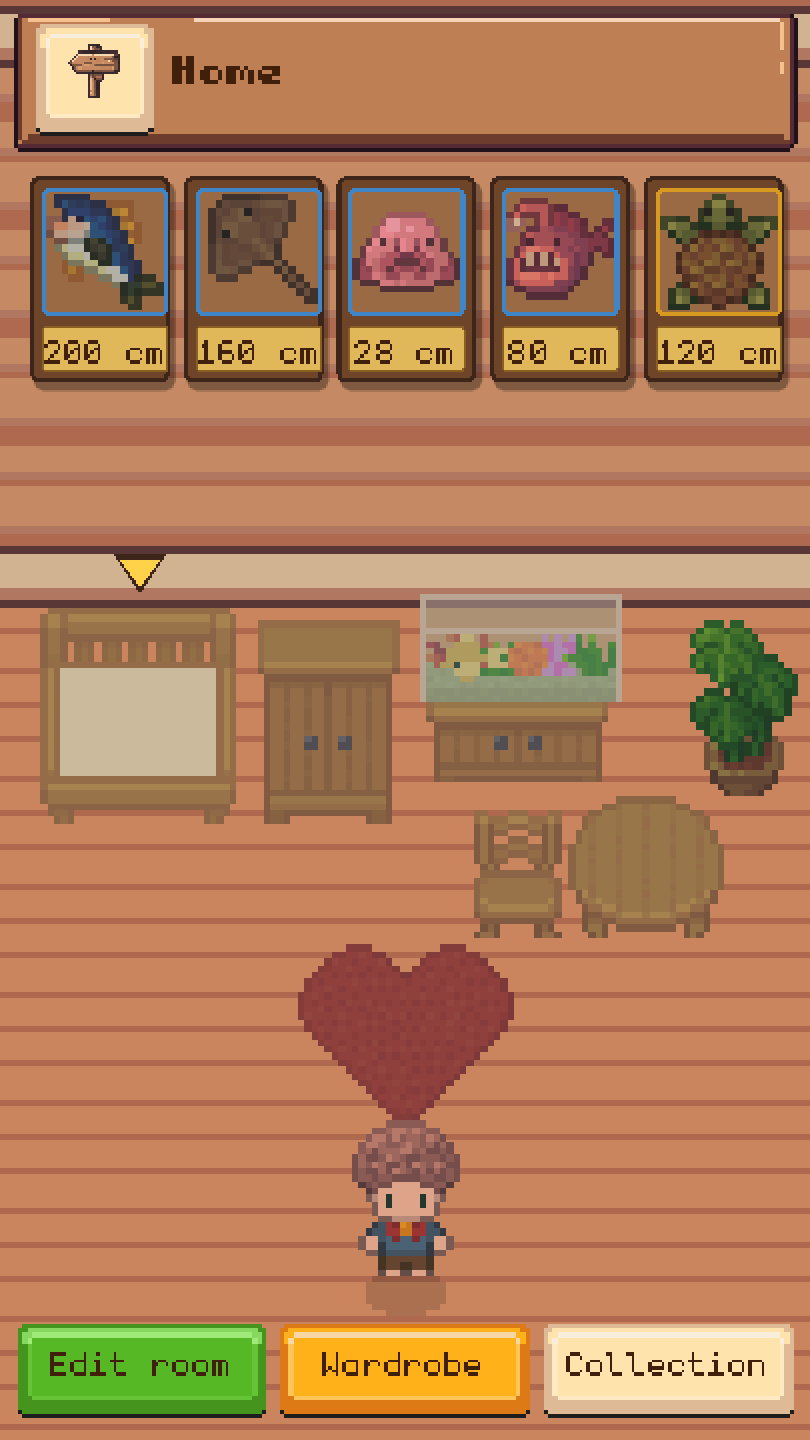
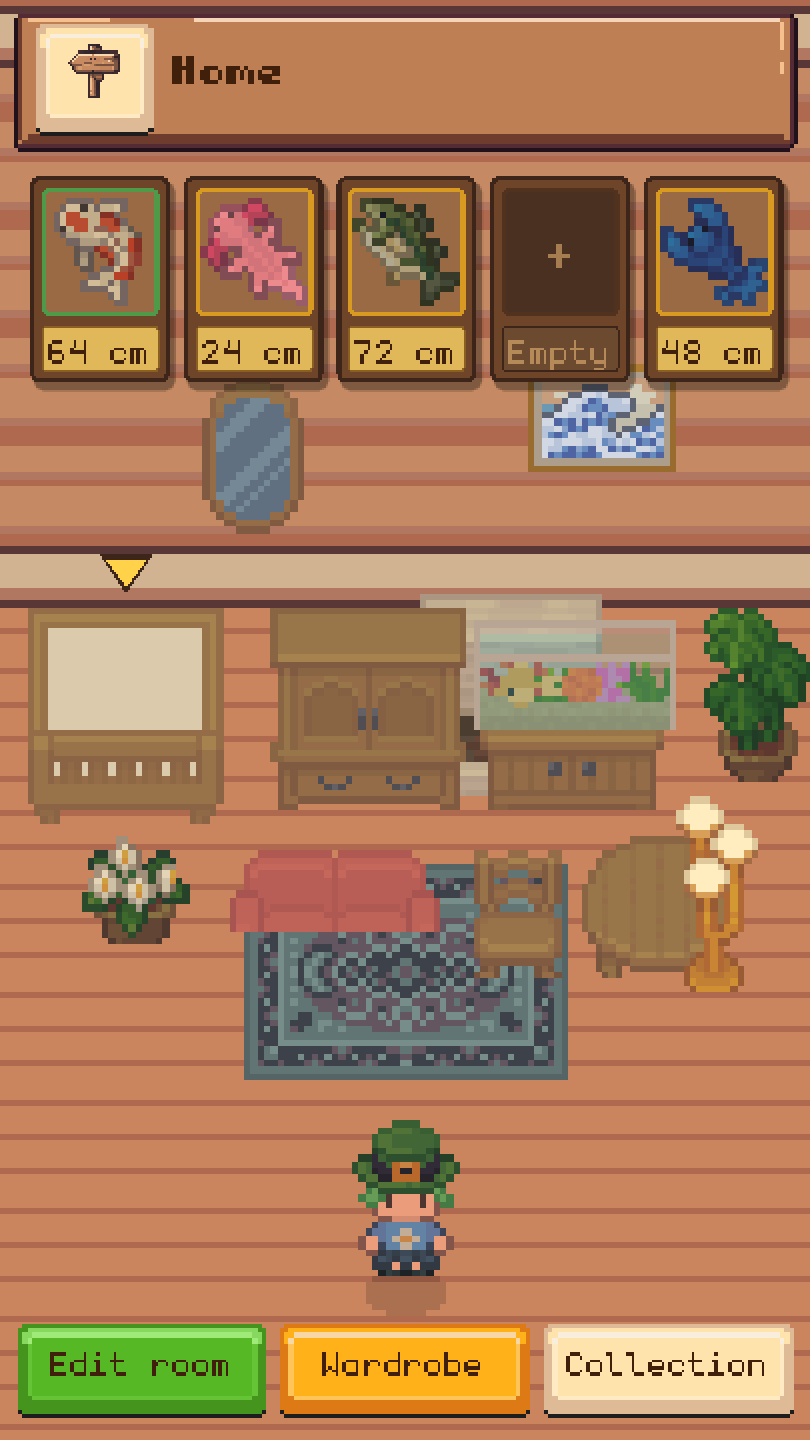
Revamp around five selling points with fresh screenshots

diff --git a/index.html b/index.html
@@ -3,12 +3,12 @@
 <head>
 <meta charset="utf-8">
 <meta name="viewport" content="width=device-width, initial-scale=1">
-<title>Fisherman's Charm: your pocket-sized seaside escape</title>
-<meta name="description" content="Your pocket-sized seaside escape. Cast a line, catch something wonderful, and follow a scruffy pup and his lucky charm across five sunny islands. A cosy pixel-art fishing game for iPhone, with no ads.">
+<title>Fisherman's Charm</title>
+<meta name="description" content="Your pocket-sized seaside escape. Collect 100 kinds of fish, fight legendary creatures with your pup beside you, and make your fisher and your home your own. A cosy pixel-art fishing game for iPhone, with no ads.">
 <meta name="theme-color" content="#0f3d52">
 <meta property="og:type" content="website">
 <meta property="og:title" content="Fisherman's Charm">
-<meta property="og:description" content="Your pocket-sized seaside escape. Hook a scruffy pup with an old charm on his bandana, then fish your way across five sunny islands to find out whose it is. Coming soon to iPhone.">
+<meta property="og:description" content="Your pocket-sized seaside escape. Collect 100 kinds of fish, fight legendary creatures, go fishing with your best friend, dress your fisher and decorate your house. Coming soon to iPhone.">
 <!-- Once the site is hosted, make this an absolute URL (https://your-domain/img/og.jpg) so link previews work. -->
 <meta property="og:image" content="img/og.jpg">
 <meta name="twitter:card" content="summary_large_image">
@@ -134,52 +134,28 @@
   h2 { font-size: clamp(32px, 5vw, 48px); }
   .sub { color: var(--ink-soft); max-width: 52ch; margin: 14px 0 0; }
 
-  /* why you'll love it */
-  .perks { display: grid; gap: 22px; margin-top: 44px; }
-  .perk {
-    background: #fff; border: 3px solid var(--wood); border-radius: var(--radius);
-    padding: 24px 22px 26px; box-shadow: 0 6px 0 var(--sand-dark);
-  }
-  .perk .glyph { font: 700 34px/1 var(--font-pixel); color: var(--gold-deep); }
-  .perk h3 { font-size: 26px; margin: 12px 0 8px; }
-  .perk p { margin: 0; color: var(--ink-soft); font-size: 17px; }
-  @media (min-width: 800px) { .perks { grid-template-columns: repeat(3, 1fr); } }
-
-  /* features */
-  .features { background: var(--sea-deep); color: #fff; position: relative; }
-  .features .kicker { color: var(--gold); }
-  .features .sub { color: #bfe3ea; }
-  .grid { display: grid; gap: 18px; margin-top: 44px; }
-  @media (min-width: 640px) { .grid { grid-template-columns: repeat(2, 1fr); } }
-  @media (min-width: 980px) { .grid { grid-template-columns: repeat(3, 1fr); } }
-  .card { background: rgba(255,255,255,.07); border: 2px solid rgba(255,255,255,.16); border-radius: var(--radius); padding: 24px; }
-  .card .num { font: 700 38px var(--font-pixel); color: var(--gold); line-height: 1; }
-  .card h3 { font-size: 24px; margin: 10px 0 8px; }
-  .card p { margin: 0; color: #cfe9ee; font-size: 17px; }
-
-  /* gallery */
-  .gallery-head { display: flex; flex-wrap: wrap; justify-content: space-between; align-items: end; gap: 12px; }
-  .hint { font-size: 14px; color: var(--ink-soft); font-weight: 600; margin: 0; }
-  .shots {
-    display: flex; gap: 22px; overflow-x: auto; padding: 38px var(--gutter) 30px;
-    margin: 0 calc(var(--gutter) * -1); scroll-snap-type: x mandatory; scrollbar-width: thin;
-    scrollbar-color: var(--wood-light) transparent;
-  }
-  .shot { flex: 0 0 min(66vw, 270px); scroll-snap-align: center; margin: 0; }
+  /* the five points: text one side, phones the other, flipping each time */
+  .point .wrap { display: grid; grid-template-columns: minmax(0, 1fr); gap: 40px; align-items: center; }
+  .point .copy p:not(.kicker) { color: var(--ink-soft); max-width: 46ch; margin: 16px 0 0; }
+  .point h2 { max-width: 14ch; }
+  .phones { display: flex; justify-content: center; gap: 22px; }
+  .phones > div { flex: 0 1 240px; min-width: 0; }
   .phone {
     background: #1b1410; border-radius: 30px; padding: 9px;
     box-shadow: 0 14px 30px rgba(43,29,18,.28), 0 0 0 3px var(--wood);
   }
   .phone img { border-radius: 22px; aspect-ratio: 9 / 16; object-fit: cover; width: 100%; height: auto; }
-  .shot figcaption { margin: 14px 4px 0; font-weight: 800; font-size: 16px; }
-  .shot figcaption small { display: block; font-weight: 600; color: var(--ink-soft); font-size: 14px; }
-
-  /* pup */
-  .pup { background: linear-gradient(180deg, var(--sand) 0%, var(--sand-dark) 100%); }
-  .pup .wrap { display: grid; grid-template-columns: minmax(0, 1fr); gap: 40px; align-items: center; }
-  .pup .phone { max-width: 270px; justify-self: center; }
-  @media (min-width: 860px) { .pup .wrap { grid-template-columns: minmax(0, 1fr) minmax(0, 1fr); } .pup .phone { justify-self: start; } }
-  .pup p { color: var(--ink-soft); max-width: 46ch; }
+  .phones > div:nth-child(2) { margin-top: 36px; }
+  .point.alt { background: var(--sea-deep); color: #fff; }
+  .point.alt .kicker { color: var(--gold); }
+  .point.alt .copy p:not(.kicker) { color: #cfe9ee; }
+  .point.alt .phone { box-shadow: 0 14px 30px rgba(0,0,0,.4), 0 0 0 3px var(--sea); }
+  @media (min-width: 860px) {
+    .point .wrap { grid-template-columns: minmax(0, 1fr) minmax(0, 1fr); gap: 60px; }
+    .point.alt .copy { order: 2; }
+    .phones { justify-content: flex-start; }
+    .point.alt .phones { justify-content: flex-end; }
+  }
 
   /* buy */
   .buy { background: linear-gradient(180deg, #17607b 0%, var(--sea-deep) 100%); color: #fff; text-align: center; }
@@ -213,9 +189,11 @@
   <div class="wrap">
     <a class="brand" href="#top">Fisherman's Charm</a>
     <ul>
-      <li><a href="#love">Why you'll love it</a></li>
-      <li><a href="#world">The islands</a></li>
-      <li><a href="#screens">Screenshots</a></li>
+      <li><a href="#collect">Collect</a></li>
+      <li><a href="#legends">Legends</a></li>
+      <li><a href="#pup">Your pup</a></li>
+      <li><a href="#fashion">Fashion</a></li>
+      <li><a href="#home">Home</a></li>
       <li><a href="#buy">Get the game</a></li>
     </ul>
   </div>
@@ -233,93 +211,67 @@
       <h1 id="hero-title"><img class="logo" src="img/logo.webp" srcset="img/logo-720.webp 720w, img/logo.webp 1200w" sizes="(min-width: 900px) 600px, 80vw" width="1200" height="432" alt="Fisherman's Charm"></h1>
     </div>
     <div class="wrap hero-bottom"><div class="hero-copy">
-      <p class="lede">Your pocket-sized seaside escape. Cast a line, catch something wonderful, and follow a scruffy pup and his lucky charm across five sunny islands.</p>
+      <p class="lede">Your pocket-sized seaside escape. Collect 100 kinds of fish, fight legendary creatures with your pup beside you, and make your fisher and your home your own.</p>
       <div class="cta-row">
         <a class="btn" href="#buy" aria-disabled="true">Coming soon</a>
-        <a class="btn ghost" href="#screens">Take a look</a>
+        <a class="btn ghost" href="#collect">Take a look</a>
       </div>
       <p class="price-note">Coming soon to iPhone. No ads, no timers, just you and the water.</p>
     </div></div>
   </section>
 
-  <!-- ================= why you'll love it ================= -->
-  <section id="love" aria-labelledby="love-title">
+  <section id="collect" class="point" aria-labelledby="collect-title">
     <div class="wrap">
-      <p class="kicker">Why you'll love it</p>
-      <h2 id="love-title">The calmest five minutes of your day</h2>
-      <p class="sub">Some games want all of your attention. This one just wants you to breathe out.</p>
-      <div class="perks">
-        <article class="perk reveal">
-          <div class="glyph" aria-hidden="true">&#9790;</div>
-          <h3>Unwind in seconds</h3>
-          <p>On the bus, in a queue or tucked up in bed: one thumb, one cast, and the world goes quiet for a while.</p>
-        </article>
-        <article class="perk reveal">
-          <div class="glyph" aria-hidden="true">?</div>
-          <h3>Every bite is a surprise</h3>
-          <p>A minnow? A golden koi? Something nobody has seen in years? You only find out when it breaks the surface.</p>
-        </article>
-        <article class="perk reveal">
-          <div class="glyph" aria-hidden="true">&hearts;</div>
-          <h3>Play it your way</h3>
-          <p>Pull back like a slingshot, or just tap the spot you want. Want it gentler? The Fisherman's Charm slows the reel right down, same rewards.</p>
-        </article>
+      <div class="copy reveal">
+        <p class="kicker">1 &middot; A hundred species, one journal</p>
+        <h2 id="collect-title">Collect 100 kinds of fish</h2>
+        <p>From sleepy pond minnows to golden koi, every island hides its own fish. Some only bite at night, some only in a storm, and every one has a size record waiting to be beaten.</p><p>Fill the journal page by page, hang your proudest catches on the wall, and sell the right fish to old Marlow to have him craft you lucky charms.</p>
       </div>
+      <div class="phones"><div class="reveal"><div class="phone"><img src="img/shot-journal.webp" width="810" height="1440" loading="lazy" alt="The fish journal, 100 of 100 found, with the four giants beaten along the top"></div></div></div>
     </div>
   </section>
 
-  <!-- ================= the world ================= -->
-  <section id="world" class="features" aria-labelledby="world-title">
+  <section id="legends" class="point alt" aria-labelledby="legends-title">
     <div class="wrap">
-      <p class="kicker">A whole little world</p>
-      <h2 id="world-title">Five islands. One big catch.</h2>
-      <p class="sub">From a sleepy pond to the edge of the deep, every island has its own fish, its own weather, and something enormous waiting offshore.</p>
-      <div class="grid">
-        <article class="card reveal"><div class="num">&#9788;</div><h3>Sunrise to starlight</h3><p>Fish at dawn, in the rain or by lantern light. Every hour and every sky brings different fish to the surface.</p></article>
-        <article class="card reveal"><div class="num">&#9875;</div><h3>Giants of the deep</h3><p>Sail somewhere new and something huge rises to meet you. Hold your nerve, and your dog will leap in to help you land it.</p></article>
-        <article class="card reveal"><div class="num">&#9786;</div><h3>Neighbours who need you</h3><p>Six islanders, each with errands to run and something lost in the water. Help them out and they'll fill your wardrobe and the furniture shop.</p></article>
-        <article class="card reveal"><div class="num">&#10022;</div><h3>Lucky charms</h3><p>Sell the right fish and old Marlow will craft you a charm: a patient float, a reef compass, a relic from the deep. Wear three at once.</p></article>
-        <article class="card reveal"><div class="num">&#8962;</div><h3>A home of your own</h3><p>Hang your biggest catches on the wall, arrange your cottage just so, and dress your fisher however you like.</p></article>
-        <article class="card reveal"><div class="num">&#10070;</div><h3>A journal to fill</h3><p>A hundred kinds of fish, each with a record to beat. Some only bite at night, some only in a storm.</p></article>
+      <div class="copy reveal">
+        <p class="kicker">2 &middot; Giants of the deep</p>
+        <h2 id="legends-title">Fight legendary creatures</h2>
+        <p>Sail somewhere new and something huge rises to meet you. Four legendary creatures guard the way to the far islands, and each one takes real nerve to land.</p><p>Win the reel, again and again, until the giant gives up. Then see how big it really was.</p>
       </div>
+      <div class="phones"><div class="reveal"><div class="phone"><img src="img/shot-giant.webp" width="810" height="1440" loading="lazy" alt="The Old Pike King leaping from the sea while a pup bites at it, its three health bars along the top"></div></div><div class="reveal"><div class="phone"><img src="img/shot-giant-caught.webp" width="810" height="1440" loading="lazy" alt="Giant caught: the Old Pike King at 196.1 cm, with the island ahead"></div></div></div>
     </div>
   </section>
 
-  <!-- ================= screenshots ================= -->
-  <section id="screens" aria-labelledby="shots-title">
+  <section id="pup" class="point" aria-labelledby="pup-title">
     <div class="wrap">
-      <div class="gallery-head">
-        <div>
-          <p class="kicker">Take a look</p>
-          <h2 id="shots-title">Life by the water</h2>
-        </div>
-        <p class="hint">Swipe for more →</p>
+      <div class="copy reveal">
+        <p class="kicker">3 &middot; You went fishing. You caught a dog.</p>
+        <h2 id="pup-title">Go fishing with your best friend</h2>
+        <p>Your very first cast hooks something heavy, and it's wearing a red bandana with an old fisherman's charm tied to it. Nobody on the island knows whose it is.</p><p>So he comes along: sitting by the pier while you wait for a bite, and leaping in to bite the giants when you need a paw. And somewhere out past the last giant, someone has been missing him.</p>
       </div>
-      <div class="shots" role="list" tabindex="0" aria-label="Game screenshots">
-        <figure class="shot" role="listitem"><div class="phone"><img src="img/shot-reel.webp" width="810" height="1440" loading="lazy" alt="The reel: a bar of green, yellow and red zones in a driftwood frame, the fish's fighting styles tagged above"></div><figcaption>Feel the tug<small>Tap in rhythm, and mind how it fights</small></figcaption></figure>
-        <figure class="shot" role="listitem"><div class="phone"><img src="img/shot-dog.webp" width="810" height="1440" loading="lazy" alt="A pup dangling from the line by his red bandana while old Marlow notices a fisherman's charm tied to it"></div><figcaption>Your first catch<small>...and what's that on his bandana?</small></figcaption></figure>
-        <figure class="shot" role="listitem"><div class="phone"><img src="img/shot-island.webp" width="810" height="1440" loading="lazy" alt="The home island: walking up to a neighbour with a Talk button, the pup at your heels"></div><figcaption>Home sweet island<small>Stop and chat with the neighbours</small></figcaption></figure>
-        <figure class="shot" role="listitem"><div class="phone"><img src="img/shot-prep.webp" width="810" height="1440" loading="lazy" alt="Getting ready: picking the weather and the hour, with bait and rods recommended for them"></div><figcaption>Pick your moment<small>Weather, hour, bait and rod</small></figcaption></figure>
-        <figure class="shot" role="listitem"><div class="phone"><img src="img/shot-map.webp" width="810" height="1440" loading="lazy" alt="A sea chart of five islands joined by dotted routes"></div><figcaption>Set sail<small>Five islands to reach</small></figcaption></figure>
-        <figure class="shot" role="listitem"><div class="phone"><img src="img/shot-catch.webp" width="810" height="1440" loading="lazy" alt="A legendary blue lobster just caught at night, with its size and value"></div><figcaption>The one that didn't get away<small>Some catches you'll never forget</small></figcaption></figure>
-        <figure class="shot" role="listitem"><div class="phone"><img src="img/shot-journal.webp" width="810" height="1440" loading="lazy" alt="The fish journal, 80 of 100 found, with the giants beaten along the top"></div><figcaption>Fill your journal<small>How many can you find?</small></figcaption></figure>
-        <figure class="shot" role="listitem"><div class="phone"><img src="img/shot-charms.webp" width="810" height="1440" loading="lazy" alt="The charm bracelet with three charms worn and the bonuses they add up to"></div><figcaption>Lucky charms<small>Crafted from the fish you sell</small></figcaption></figure>
-        <figure class="shot" role="listitem"><div class="phone"><img src="img/shot-home.webp" width="810" height="1440" loading="lazy" alt="Your cottage: five prize fish on the wall, an aquarium, a bed and a heart rug"></div><figcaption>Make it home<small>Your proudest catches on the wall</small></figcaption></figure>
-        <figure class="shot" role="listitem"><div class="phone"><img src="img/shot-bar.webp" width="810" height="1440" loading="lazy" alt="Marlow's bar with the job board, bait jars, rod rack and a model boat"></div><figcaption>Old Marlow's bar<small>Jobs, gear and a good yarn</small></figcaption></figure>
-      </div>
+      <div class="phones"><div class="reveal"><div class="phone"><img src="img/shot-dog-pier.webp" width="810" height="1440" loading="lazy" alt="A fisher on the pier with a pup sitting beside the reeds"></div></div><div class="reveal"><div class="phone"><img src="img/shot-dog-bite.webp" width="810" height="1440" loading="lazy" alt="The pup biting a leaping giant, one of its health bars gone"></div></div></div>
     </div>
   </section>
 
-  <!-- ================= the pup ================= -->
-  <section class="pup" aria-labelledby="pup-title">
+  <section id="fashion" class="point alt" aria-labelledby="fashion-title">
     <div class="wrap">
-      <div class="phone reveal"><img src="img/shot-dog.webp" width="810" height="1440" loading="lazy" alt="Old Marlow says: Hold on, what's this tied to it? A fisherman's charm. A pup dangles from the line by his red bandana"></div>
-      <div class="reveal">
-        <p class="kicker">Meet your best friend</p>
-        <h2 id="pup-title">You went fishing. You caught a dog.</h2>
-        <p>Your very first cast hooks something heavy, and it's wearing a red bandana. Tied to it is an old fisherman's charm, the real kind. Nobody on the island knows whose it is.</p>
-        <p>So he comes along: trotting at your heels, sitting by the pier while you wait for a bite, barking like mad when something good comes up. And somewhere out past the last giant, someone has been missing him.</p>
+      <div class="copy reveal">
+        <p class="kicker">4 &middot; Dress the part</p>
+        <h2 id="fashion-title">Your fashion, your way!</h2>
+        <p>Pick your skin, eyes, hair and its colour, an outfit, bottoms, shoes and a hat, glasses or earrings, and spin your fisher around to see the whole look.</p><p>Help the islanders and they'll thank you with special outfits and masks to add to your wardrobe.</p>
       </div>
+      <div class="phones"><div class="reveal"><div class="phone"><img src="img/shot-wardrobe.webp" width="810" height="1440" loading="lazy" alt="The wardrobe: a fisher in a floral top and a lucky hat, with a row for each choice"></div></div></div>
+    </div>
+  </section>
+
+  <section id="home" class="point" aria-labelledby="home-title">
+    <div class="wrap">
+      <div class="copy reveal">
+        <p class="kicker">5 &middot; A home of your own</p>
+        <h2 id="home-title">Decorate your house</h2>
+        <p>Furnish your cottage piece by piece: beds, sofas, rugs, lamps and plants from the furniture shop, plus presents from the islanders for helping out.</p><p>Tap to pick a piece up, drag it where you want it, and hang your biggest catches on the wall.</p>
+      </div>
+      <div class="phones"><div class="reveal"><div class="phone"><img src="img/shot-home.webp" width="810" height="1440" loading="lazy" alt="A cosy cottage with a rug, sofa, fireplace, aquarium and mirrors, prize fish above"></div></div></div>
     </div>
   </section>
 

diff --git a/README.md b/README.md
@@ -15,18 +15,15 @@ A static, dependency-free page for Fisherman's Charm: `index.html` (inline CSS a
 
 ## The images
 
-`img/shot-*.webp` are real in-game screenshots: the game's 405x720 window doubled to 810x1440 with
-nearest-neighbour scaling, saved as lossless WebP (the sea chart, all parchment texture, as lossy). They
-come from a staged save well into the game (the game's `Debug._setup("rich")` plus the dog named Biscuit,
-every giant beaten, charms worn and an aquarium at home), captured scene by scene with the game's
-screenshot helper (`tools/art_shots.gd`'s `_visit`):
+`img/shot-*.webp` are real in-game screenshots, one or two per selling point: the game's 405x720 window
+doubled to 810x1440 with nearest-neighbour scaling, saved as lossless WebP. They come from the game
+repository (`../fisherman-charm`):
 
-- `shot-reel`: a reel at Coral Lagoon, the fish Darting and Heavy, in its driftwood frame
-- `shot-dog`: the tutorial, Marlow spotting the fisherman's charm on the pup's bandana (`tools/ui_test_tutorial.tscn`, two lines on)
-- `shot-island`: walking up to Pip on the home island, "Talk to Pip" showing, the pup alongside
-- `shot-prep`: Prepare at Coral Lagoon, rain at dusk, with the recommendations
-- `shot-map`, `shot-journal`, `shot-charms`, `shot-home`, `shot-bar`: those screens on the same save
-- `shot-catch`: a legendary Blue Lobster landed at Abyssal Reef at night
+- `tools/site_shots.tscn` (`godot --path . res://tools/site_shots.tscn -- --out=<dir>`) stages a save with
+  every species found, the dog along, a furnished home and the islanders' outfits unlocked, and saves
+  `journal` (shot-journal), `home` (shot-home), `wardrobe` and `pier` (shot-dog-pier).
+- `tools/ui_test_voyage.tscn -- --debugsave --out=<dir>` plays a giant fight and saves `y2_dog_hops`
+  (shot-giant), `y3_dog_bites` (shot-dog-bite) and `y4_caught` (shot-giant-caught).
 
 `hero.webp` (1672 wide) and `hero-960.webp` (for phones) are the hero picture, pixel art of the boy and his
 pup on the pier at sunset, shown full width with a slow parallax drift (off under reduced motion).
